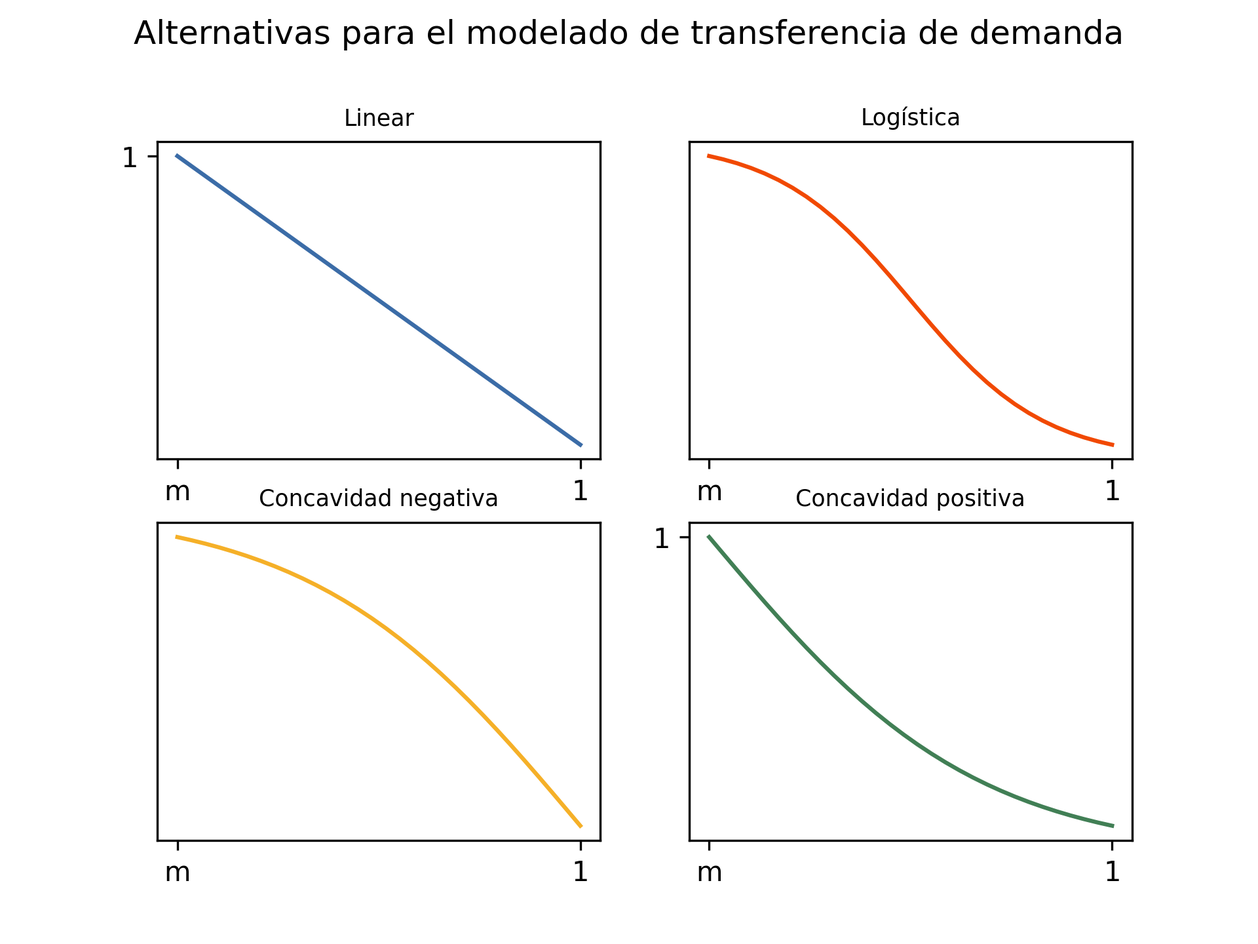
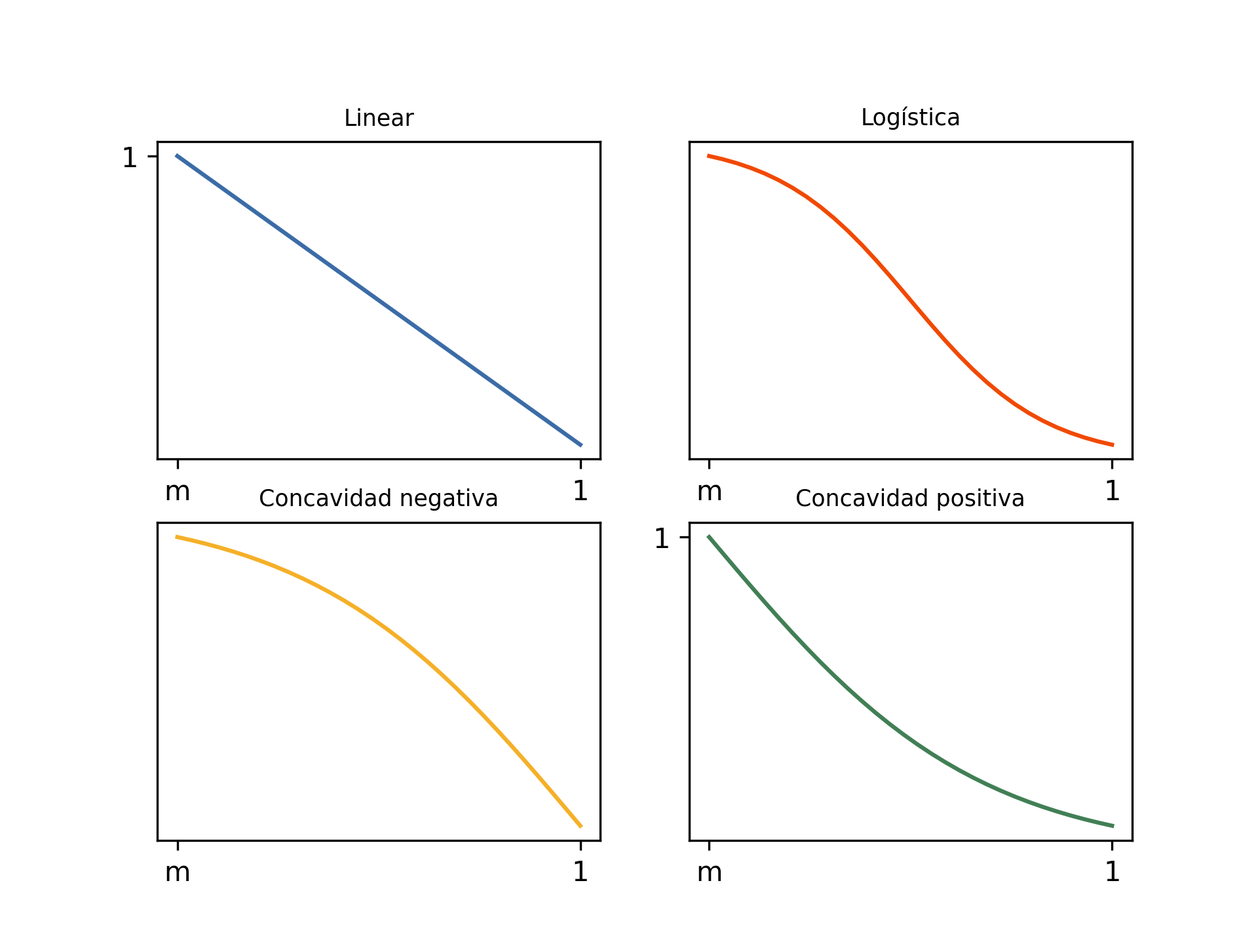
fixes in expriments chapter

Changed region(s): [[0.0938, 0.0, 0.9062, 0.0625]]

diff --git a/thesis/doc/document.tex b/thesis/doc/document.tex
@@ -5,6 +5,7 @@
   \usepackage{amssymb}
   \usepackage{amstext}
   \usepackage{amsthm}
+  \usepackage{caption}
   \usepackage{booktabs}
   \usepackage{esvect}
   \usepackage[font=small,labelfont=bf]{caption}
@@ -22,6 +23,8 @@
 
   \newtheorem{definition}{Definición}
   \newtheorem{lemma}{Lema}
+
+  \captionsetup[table]{name=Tabla}
 
   \newcommand{\modelspace}{\hspace{1.5em}}
 
@@ -368,7 +371,7 @@
 
   Proponemos una formulación alternativa de un nivel que puede ser resuelta por un solver MILP convencional y no incurre en agregados de variables. Sobre esta formulación haremos pruebas empíricas que muestran su validez. Esta formulación resuelve el mismo problema y podemos obtener de ella tanto un valor de demanda transferida como el conjunto de decisiones de cuales infraestructuras construir y dónde.
 
-  La idea surge de la formulación binivel quitando el subproblema y agregando sus restricciones al problema de primer nivel bajo el argumento de que las funciones $f_k$ deben ser estrictamente decrecientes para que el problema tenga sentido semánticamente ya que a mayor costo de usuario menor debería ser la demanda transferida. Entonces para maximizar el objetivo de nuestro problema: $\sum_{j \in OD}f_k(w_k)$, lo mejor es los costos de los caminos más cortos ($w_k, k \in OD$, sean lo más chico posible y por lo tanto logramos minimizar también el costo de usuario.
+  La idea surge de la formulación binivel quitando el subproblema y agregando sus restricciones al problema de primer nivel bajo el argumento de que las funciones $f_k$ deben ser estrictamente decrecientes para que el problema tenga sentido semánticamente ya que a mayor costo de usuario menor debería ser la demanda transferida. Entonces para maximizar el objetivo de nuestro problema: $\sum_{j \in OD}f_k(w_k)$, lo mejor es los costos de los caminos más cortos $w_k, k \in OD$ sean lo más chico posible y por lo tanto logramos minimizar también el costo de usuario.
 
   La formulación resultante es la siguiente:
 
@@ -667,7 +670,7 @@
   \FloatBarrier
   \subsection{Análisis experimental}
 
-  El procedimiento de validación experimental consistió en generar instancias aleatorias, solucionarlas con las diferentes versiones y verificar que se cumplan las condiciones sobre las soluciones. Las diferentes alternativas fueron sobre la formulación de un nivel, dadas por las dos implementaciones de las $f_k$, las dos versiones multiobjetivo y la versión de un único objetivo. Consideraremos en principio parámetros $\beta = 1$ y $\rho = 1$ dado que obtuvimos resultados correctos con esta asignación en una ronda de pruebas.
+  El procedimiento de validación experimental consistió en generar instancias aleatorias, solucionarlas con las diferentes versiones y verificar que se cumplan las condiciones sobre las soluciones. Las diferentes alternativas fueron sobre la formulación de un nivel, dadas por las dos implementaciones de las $f_k$, las dos versiones multiobjetivo y la versión de un único objetivo. Consideraremos en principio parámetros $\beta = 1$ y $\rho = 1$ dado que obtuvimos resultados correctos con esta asignación en una ronda de pruebas preliminares.
 
   Utilizamos la instancia de Sioux-Falls como grafo base, dada su amplia adopción en literatura relativa al tema \cite{liu2019}. Los datos de nodos y arcos fueron obtenidos del repositorio de instancias de redes de transporte \footnote{Transportation Networks Repositort \url{https://github.com/bstabler/TransportationNetworks}}. El costo de usuario se tomó igual al largo del arco así como el costo de construcción de la primer infraestructura no base. Consideramos en total tres tipos de infraestructuras incluyendo la base. El cálculo de costos de usuario y construcción se realizó en base a los costos de usuario base y de construcción para la infraestructura 1, como se detalla en el apéndice \ref{sect:costcalculation}, página \pageref{sect:costcalculation}.
 
@@ -753,23 +756,25 @@
 
   Los resultados de las nuevas ejecuciones se encuentran en la Tabla \ref{table:resumenreejecuciones} y las Figuras \ref{fig:runtimecomparisonrerun} y \ref{fig:firstfourquintilesrerun}. Observamos que se mantiene el comportamiento de la ronda anterior y el v1 sigue siendo más rápido. También observamos que el desempeño de v5 se degradó de peor manera. En los nuevos resultados no hubieron diferencias en términos de demanda total transferida y verificamos correctamente que la diferencia en la instancia problemática de la primera ronda fue solucionada. Dados los resultados, decidimos continuar el resto de este trabajo con la versión v1 de la formulación.
 
-  \section{Resultados computacionales}
+  \section{Experimentos computacionales}
   \label{sect:problemresults}
+
+  Aquí ponemos a prueba el modelo resultante del capitulo \ref{sect:problemresolution}. Primero estudiamos el comportamiento del modelo variando alguno de sus parámetros de manera controlada sobre una instancia de tamaño manejable y analizamos los resultados respecto a la demanda transferida total y a las decisiones que toma respecto a las ciclovías. Luego aplicamos el modelo a una instancia de tamaño realista de la ciudad de Montevideo.
 
   \subsection{Análisis de sensibilidad}
 
-  Estudiamos el comportamiento del modelo frente a perturbaciones en alguno de sus parámetros. Utilizamos la red de Sioux-Falls nuevamente dado que es de un tamaño manejable para realizar todas las ejecuciones en tiempo razonable. Las perturbaciones las realizamos sobre los parámetros específicos del problema, dejando los datos de la red y matriz de demanda fijos. Estos son: puntos de quiebre, funciones de transferencia de demanda y presupuesto. Observar que los parámetros estudiados son de distinta naturaleza: mientras que los primeros dos son relativos al comportamiento de la demanda el último es una decisión exclusiva de la entidad planificadora. La matriz de demanda se toma de Liu 2019 \cite{liu2019}, con 22 pares origen-destino. Los datos de la red y matriz de demanda se encuentran en un apéndice.
+  Estudiamos el comportamiento del modelo frente a perturbaciones en alguno de sus parámetros. Utilizamos la red de Sioux-Falls nuevamente dado que es de un tamaño manejable para realizar todas las ejecuciones en tiempo razonable. Las perturbaciones las realizamos sobre los parámetros específicos del problema, dejando los datos de la red y matriz de demanda fijos. Estos son: puntos de quiebre, funciones de transferencia de demanda y presupuesto. Observar que los parámetros estudiados son de distinta naturaleza: mientras que los primeros dos son relativos al modelado del comportamiento de la demanda el último es una decisión exclusiva de la entidad planificadora. La matriz de demanda se toma de \cite{liu2019}, con 22 pares origen-destino. Los datos de la red y matriz de demanda se encuentran en el apéndice \ref{sect:siouxfallsdata}.
 
   \subsubsection{Especificación de datos}
   \label{sect:dataspecification}
 
-  Nuestro problema requiere la disponibilidad de parámetros que en la práctica no son fácilmente especificables en términos de un valor escalar. En esta sección definimos algunos criterios que utilizamos para especificarlos en base a trabajos externos. En la siguiente, analizamos qué efectos tienen las perturbaciones sobre las soluciones.
+  Nuestro problema requiere la disponibilidad de parámetros que en la práctica no son fáciles de estimar de forma realista como los costos usuario y construcción por tipo de infrastructura y transferencia de demanda en función del costo de usuario. En esta sección definimos algunos criterios que utilizamos para especificarlos en base a trabajos de la literatura. En la siguiente, analizamos qué efectos tienen las perturbaciones sobre las soluciones.
 
-  La cantidad y tipos de infraestructuras de ciclovía varían de país a país tanto en su disponibilidad como en sus costos y por lo tanto es difícil estimar estos últimos de manera general sin llegar a un análisis caso a caso. Por ejemplo en la ciudad de Montevideo podemos encontrar tres tipos \footnote{Mapa interactivo: \url{https://montevideo.gub.uy/mapa-montevideo-en-bici}}: el más básico consiste en imponer un límite bajo de velocidad para los vehículos automotores (30 km/h) y cartelería resaltando cierta calle o zona cómo disponible para el tránsito en bicicleta. Un segundo tipo consiste en utilizar una fracción de la calle como senda específica para bicicletas que puede ir en uno o ambos sentidos. Y el tercer tipo consta de una bicisenda construida especificamente para bicicletas generalmente en canteros y parques.
+  La cantidad y tipos de infraestructuras de ciclovía varían de un contexto a otro tanto en su disponibilidad como en sus costos y por lo tanto es difícil estimar estos últimos de manera general sin llegar a un análisis caso a caso. Por ejemplo en la ciudad de Montevideo podemos encontrar tres tipos \footnote{Mapa interactivo: \url{https://montevideo.gub.uy/mapa-montevideo-en-bici}}: el más básico consiste en imponer un límite superior de velocidad para los vehículos automotores (30 km/h) y cartelería resaltando cierta calle o zona como habilitada para el tránsito en bicicleta. Un segundo tipo consiste en utilizar una fracción de la calle como senda específica para bicicletas que puede ir en uno o ambos sentidos. Y el tercer tipo consta de una bicisenda construida específicamente para bicicletas generalmente en canteros y parques.
 
-  Los costos de construcción pueden variar según la ubicación y tipo de ciclovía, congestión del área de la ciudad, precios de insumos externos como el petróleo y cuestiones logísticos como reubicación de paradas de ómnibus y señales de tránsito, entre otros aspectos. Se puede encontrar información al respecto en el análisis {\it Typical Costs of Cycling Interventions} \cite{typicalcostsofcylcing} que presenta diversos tipos de infraestructuras y los principales factores que afectan el costo de construcción como trabajo dentro de un programa de incentivo del transporte en bicicleta en Inglaterra. En este trabajo nos basamos para simplificar y generalizar la estimación de costos en base al tipo de infraestructura: decimos que la infraestructura de tipo $i+1$ cuesta el doble que la infraestructura de tipo $i$.
+  Los costos de construcción pueden variar según la ubicación y tipo de ciclovía, congestión del área de la ciudad y su afectación por las obras, precios de insumos externos como el petróleo y cuestiones logísticas como reubicación de paradas de ómnibus y señales de tránsito, entre otros aspectos. Se puede encontrar información al respecto en el análisis \cite{typicalcostsofcylcing} que presenta diversos tipos de infraestructuras y los principales factores que afectan el costo de construcción como trabajo dentro de un programa de incentivo del transporte en bicicleta en Inglaterra. En dicho trabajo nos sustentamos para simplificar y generalizar la estimación de costos en base al tipo de infraestructura: decimos que la infraestructura de tipo $i+1$ cuesta el doble que la infraestructura de tipo $i$.
 
-  Por otro lado, los costos de usuario de atravesar un arco varían en la práctica dependiendo de factores como ancho de la vía, pavimento, volumen y velocidad del tránsito, entre otros, que a su vez se ponderan por el largo del arco. En el documento {\it Bicycle Level Of Service, Applied Model} \cite{blos2007} podemos encontrar el concepto de {\it Bicycle Level of Service} (BLOS), muy utilizado en la literatura, que agrupa estas consideraciones bajo un único valor. Para el cálculo del BLOS se tienen en cuenta los distintos aspectos que cuantificados en indicadores, son luego utilizados en una fórmula para calcular el puntaje de BLOS que se estratifican según el documento en 6 niveles del A al F.
+  Por otro lado, los costos de usuario de atravesar un arco varían en la práctica dependiendo de factores como ancho de la vía, pavimento, volumen y velocidad del tránsito, entre otros, que a su vez se ponderan por el largo del arco. En el documento \cite{blos2007} podemos encontrar el concepto de {\it Bicycle Level of Service} (BLOS), muy utilizado en la literatura, que agrupa estas consideraciones bajo un único valor. Para el cálculo del BLOS se tienen en cuenta los distintos aspectos que cuantificados en indicadores, son luego utilizados en una fórmula para calcular el puntaje de BLOS que se estratifican en 6 niveles del A al F.
 
   Los aspectos que se consideran son los siguientes:
 
@@ -787,12 +792,12 @@
       \toprule
         Nivel & Puntaje BLOS & Infraestructura & \shortstack{Proporción de mejora \\ sobre costo base} \\
       \midrule
-        A     & $\leq 1.5$   & 5              & 0.4   \\
-        B     & 1.5-2.5      & 4              & 0.52  \\
-        C     & 2.5-3.5      & 3              & 0.64  \\
-        D     & 3.5-4.5      & 2              & 0.76  \\
-        E     & 4.5-5.5      & 1              & 0.88  \\
-        F     & > 5.5        & 0              & 1     \\
+        A     & $\leq 1.5$   & 5              & 0,4   \\
+        B     & 1,5-2,5      & 4              & 0,52  \\
+        C     & 2,5-3,5      & 3              & 0,64  \\
+        D     & 3,5-4,5      & 2              & 0,76  \\
+        E     & 4,5-5,5      & 1              & 0,88  \\
+        F     & > 5,5        & 0              & 1     \\
       \bottomrule
     \end{tabular}
     \caption{Niveles de servicio definidos en el BLOS, menor puntaje BLOS representa mejores condiciones para el usuario. Para cada nivel se define una infraestructura y su correspondiente proporción de mejora sobre la infraestructura base.}\label{table:blosscores}
@@ -804,9 +809,9 @@
 
   Respecto al comportamiento de los usuarios, suponemos que la demanda de todos los pares origen-destino se comporta de igual manera, lo cual tiene sentido al considerar una población determinada. Esto reduce la necesidad de especificar $|OD|$ funciones de transferencias de demanda a una sola. Es decir, para cada par origen destino $k$, tenemos que $f_k(w_k) = f({w_k \over S^{best}_k})d_k$, donde $d_k$ es la demanda máxima que se puede transferir, $S^{best}_k$ es el costo del camino más corto sobre la infraestructura base y $f: [m, 1] \rightarrow [0, 1]$ modela la proporción de demanda transferida en función de la proporción del nuevo costo sobre el costo base $S^{best}_k$.
 
-  Partimos del trabajo {\it Performance evaluation of extreme bicycle scenarios} \cite{shwe2014} que analizando una extensiva encuesta realizada en varios países aproxima la proporción de viajes hechos en bicicleta y el largo de infraestructura de ciclovía per cápita en la ciudad a una relación lineal. Tomando este resultado, utilizamos una función lineal decreciente como función de transferencia de referencia. Como alternativa, encontramos en el libro {\it Modeling Transport} \cite{ortuz2011} que el comportamiento de la demanda al momento de decidir entre dos modos se comporta como una función con forma de S, logística o sigmoide, por lo que también consideramos una función logística en nuestras pruebas. Por completitud analizamos otras funciones que podrían considerarse razonables: una con concavidad estrictamente positiva y otra con concavidad estrictamente negativa en el intervalo $[m, 1]$.
+  Partimos de \cite{shwe2014} en el que analizando una extensiva encuesta realizada en varios países aproxima la proporción de viajes hechos en bicicleta y el largo de infraestructura de ciclovía per cápita en la ciudad a una relación lineal. Tomando este resultado, utilizamos una función lineal decreciente como función de transferencia de referencia. Como alternativa, en \cite{ortuz2011} se menciona que el comportamiento de la demanda al momento de decidir entre dos modos se comporta como una función con forma de S, logística o sigmoide, por lo que también consideramos una función logística en nuestras pruebas. Por completitud analizamos otras funciones que podrían considerarse razonables: una con concavidad estrictamente positiva y otra con concavidad estrictamente negativa en el intervalo $[m, 1]$.
 
-  Establecer valores de presupuesto realistas depende altamente de las condiciones políticas y económicas de cada localidad. Podemos encontrar en la literatura \cite{rios2015} y \cite{shwe2014} que factores de cubrimiento de la red de ciclovías en una ciudad de entre 10\% y 40\% del total de la superficie de una ciudad están dentro de los parámetros normales. Seguimos este enfoque y especificamos el presupuesto como porcentaje del costo total de construir una infraestructura en toda la red tomando como referencia el costo de la infraestructura 1, es decir la infraestructura especializada más básica. Dado nuestro método para el calculo de los costos de los tipos de infraestructuras esto implica que un presupuesto del 40\% es suficientemente para cubrir 20\% solo con la infraestructura de tipo 2, 10\% solo con la infraestructura de tipo 3; y en general un factor de $F\%$ cubre ${F \over {2^{i - 1}}}\%$ de la infraestructura $i \in \{1,..,5\}$.
+  Establecer valores de presupuesto realistas depende altamente de las condiciones políticas y económicas de cada localidad. Podemos encontrar en \cite{rios2015} y \cite{shwe2014} que factores de cubrimiento de la red de ciclovías en una ciudad de entre 10\% y 40\% del total de la red de calles de una ciudad están dentro de los parámetros normales. Seguimos este enfoque y especificamos el presupuesto como porcentaje del costo total de construir una infraestructura en toda la red tomando como referencia el costo de la infraestructura 1, es decir la infraestructura especializada más básica que sigue a la red de calles. Dado nuestro método para el cálculo de los costos de los tipos de infraestructuras esto implica que un presupuesto del 40\% es suficientemente para cubrir 20\% solo con la infraestructura de tipo 2, 10\% solo con la infraestructura de tipo 3; y en general un factor de $F\%$ cubre ${F \over {2^{i - 1}}}\%$ de la infraestructura $i \in \{1,..,5\}$.
 
   Finalmente, usamos el largo de los arcos como costo de usuario y costo de construcción de la infraestructura 1. Esto nos da una medida suficientemente simple y general como para usar en cualquier instancia.
 
@@ -827,9 +832,9 @@
 
   En primer lugar analizamos la sensibilidad respecto al factor de presupuesto. Los valores utilizados son: 10\%, 80\%, 160\% y 320\%. El objetivo es observar si se cumple la simple intuición de que siempre a mayor presupuesto se obtienen mejores resultados y cómo es el comportamiento respecto a los incrementos de presupuesto. También analizamos el efecto que tiene la cantidad de puntos de quiebre en los resultados, utilizando 5 y 20 puntos para cada presupuesto.
 
-  Luego, comparamos el resultado de aplicar diferentes funciones de transferencia de demanda y cómo afecta el hecho de utilizar distintas cantidades de puntos de quiebre. Utilizamos 5, 20 y 50 puntos de quiebre junto a las cuatro funciones mencionadas en la sección anterior. Los puntos los definimos de manera que sean equidistantes en el codominio, es decir, si hay N puntos, de un punto al siguiente se obtiene una mejora de aproximadamente ${1 \over N - 1}$ en la proporción de demanda transferida.
+  Luego, comparamos el resultado de aplicar diferentes funciones de transferencia de demanda y cómo afecta el hecho de utilizar distintas cantidades de puntos de quiebre. Utilizamos 5, 20 y 50 puntos de quiebre junto a las cuatro funciones mencionadas en la sección anterior (\ref{sect:dataspecification}). Definimos los puntos de manera que sean equidistantes en el codominio, es decir, si hay N puntos, de un punto al siguiente se obtiene una mejora de aproximadamente ${1 \over N - 1}$ en la proporción de demanda transferida.
 
-  Como resultado tenemos 36 instancias cuya representación pre simplificaciones en Simplex son matrices que van desde un tamaño de 12597x12310 con 562 variables enteras hasta 14487x14290 con 1552 variables enteras.
+  Como resultado tenemos 36 instancias cuya representación pre simplificaciones en Simplex son matrices que van desde un tamaño de 12597x12310 con 562 variables enteras hasta 14487x14290 con 1552 variables binarias.
 
   \begin{figure}[h!]
     \centering
@@ -841,9 +846,9 @@
   \FloatBarrier
   \subsubsection{Resultados}
 
-  Las instancias fueron ejecutadas con el solver CPLEX versión 12.8.0.0 en su configuración por defecto sobre una maquina Intel Core i9-9900K con 64GiB de RAM. Los resultados generales de las ejecuciones se encuentran en la Tabla \ref{table:sensibilityresults} y los datos sobre el uso del presupuesto, que luego comentaremos, en la Tabla \ref{table:sensibilitybudgetusage}.
+  Las instancias fueron ejecutadas con el solver CPLEX versión 12.8.0.0 en su configuración por defecto sobre una máquina Intel Core i9-9900K con 64GiB de RAM. Los resultados generales de las ejecuciones se encuentran en la Tabla \ref{table:sensibilityresults} y los datos sobre el uso del presupuesto, que luego comentaremos, en la Tabla \ref{table:sensibilitybudgetusage}.
 
-  Se puede observar que a mayor cantidad de puntos de quiebre, fijando la función de transferencia de demanda y el presupuesto, obtenemos mayor transferencia de demanda. Esto tiene sentido ya que la función de transferencia es representada de manera más precisa. También vemos que variar la cantidad de puntos de quiebre parece hacer variar enormemente el tiempo de ejecución en algunos casos, sin poderse determinar una relación directa entre la cantidad y la complejidad resultante, aunque entendemos que para sacar conclusiones al respecto deberíamos realizar un buen número de ejecuciones para cada instancia en lo que en CPLEX se llama modo oportunista, es decir paralelizar al máximo sin garantizar determinismo. Por otro lado, observamos un fuerte impacto del modelado del comportamiento de la transferencia de demanda, es decir de cuál función se utiliza, sobre la demanda transferida. Esto nos confirma que es un aspecto importante del modelado, si bien las funciones consideradas en este caso pueden haber sido irreales o exageradas en sus curvaturas. Finalmente, vemos que la demanda transferida en función de la cantidad de presupuesto, fijando cantidad de puntos de quiebre y función de transferencia de demanda, parece crecer según la curva de la Figura \ref{fig:demandtransferbybudgetlinear} con concavidad negativa lo que implica que el beneficio marginal de aumentar el presupuesto es cada vez menor.
+  Se puede observar que a mayor cantidad de puntos de quiebre, fijando la función de transferencia de demanda y el presupuesto, obtenemos mayor transferencia de demanda. Esto tiene sentido ya que la función de transferencia es representada de manera más precisa. También vemos que variar la cantidad de puntos de quiebre parece hacer variar enormemente el tiempo de ejecución en algunos casos, sin poderse determinar una relación directa entre la cantidad y la complejidad resultante, aunque entendemos que para sacar conclusiones al respecto deberíamos realizar un buen número de ejecuciones para cada instancia en lo que en CPLEX se llama modo oportunista, es decir paralelizar al máximo sin garantizar determinismo. Por otro lado, observamos un fuerte impacto del modelado del comportamiento de la transferencia de demanda, es decir de cuál función se utiliza, sobre la demanda transferida. Esto nos confirma que es un aspecto importante del modelado, si bien las funciones consideradas en este caso pueden haber sido poco realistas o exageradas en sus curvaturas. Finalmente, vemos que la demanda transferida en función de la cantidad de presupuesto, fijando cantidad de puntos de quiebre y función de transferencia de demanda, parece crecer según la curva de la Figura \ref{fig:demandtransferbybudgetlinear} con concavidad negativa, lo que implica que el beneficio marginal de aumentar el presupuesto es cada vez menor.
 
   \begin{figure}[h!]
     \centering
@@ -956,9 +961,9 @@
   \end{figure}
 
   \FloatBarrier
-  \subsubsection*{Casos interesantes}
+  \subsubsection*{Casos particulares}
 
-  Como caso interesante de comparación vamos a discutir cómo afecta la cantidad de puntos de quiebre a la decisiones de cuales infraestructuras construir. Comparamos las instancias 11, 12 y 13, que utilizan la función lineal de transferencia de demanda con 5, 20 y 50 puntos de quiebre respectivamente y un factor de presupuesto de 40\%. Más datos específicos de cada instancia se pueden apreciar en la Tabla \ref{table:sensibilityinfralengths} y Figura \ref{fig:sensibilityinstance11_12_13}. Observamos que a mayor cantidad de puntos de quiebre más inteligentes son las decisiones tomadas. Por ejemplo, en la instancia 11 la mitad del acotado presupuesto se invirtió en poco recorrido utilizando la infraestructura 3 mientras que en la 12 y 13 el gasto en esta infraestructura sólo fue el 12\%. En las instancias 12 y 13 la mayor parte del gasto se hizo en infraestructura 2 que para el nivel de presupuesto y función de transferencia de demanda parece ser la más eficiente. En particular, los datos de porcentaje del largo total cubierto desglosado por tipo de infraestructura nos da una idea general de la demanda afectada, al ser esta instancia altamente densa y uniforme en términos de orígenes y destinos, como se observa en la Figura \ref{fig:sioux_falls_demand}.
+  Como caso interesante de comparación vamos a discutir cómo afecta la cantidad de puntos de quiebre a la decisiones de cuales infraestructuras construir. Comparamos las instancias 11, 12 y 13, que utilizan la función lineal de transferencia de demanda con 5, 20 y 50 puntos de quiebre respectivamente y un factor de presupuesto de 40\%. Más datos específicos de cada instancia se pueden apreciar en la Tabla \ref{table:sensibilityinfralengths} y Figura \ref{fig:sensibilityinstance11_12_13}. Observamos que a mayor cantidad de puntos de quiebre más inteligentes son las decisiones tomadas. Por ejemplo, en la instancia 11 la mitad del acotado presupuesto se invirtió en poco cubrimiento de calles utilizando la infraestructura 3 mientras que en la 12 y 13 el gasto en esta infraestructura sólo fue el 12\%. En las instancias 12 y 13 la mayor parte del gasto se hizo en infraestructura 2 que para el nivel de presupuesto y función de transferencia de demanda parece ser la más eficiente. En particular, los datos de porcentaje del largo total de las calles cubierto desglosado por tipo de infraestructura nos da una idea general de la demanda afectada, al ser esta instancia altamente densa y uniforme en términos de orígenes y destinos, como se observa en la Figura \ref{fig:sioux_falls_demand}.
 
   Si observamos los datos de demanda transferida y costo de camino más corto, Figura \ref{fig:sensibilitybyodpair_11_12_13}, vemos que a mayor cantidad de puntos de quiebre mayor es la cantidad de pares origen-destino afectada aunque en general las decisiones de cuáles pares origen-destino y cuánto mejorarlos no fue muy diferente entre instancias.
 
@@ -968,9 +973,9 @@
       \toprule
         Instancia & Infra. 1 (\%) & Infra. 2 (\%) & Infra. 3 (\%) & Total (\%) \\
       \midrule
-        11 & 8.74  & 6.51   & 5.72 & 20.98 \\
-        12 & 8.89  & 15.22  & 1.64 & 25.75 \\
-        13 & 2.29  & 17.77  & 1.96 & 22.73 \\
+        11 & 8,74  & 6,51   & 5,72 & 20,98 \\
+        12 & 8,89  & 15,22  & 1,64 & 25,75 \\
+        13 & 2,29  & 17,77  & 1,96 & 22,73 \\
       \bottomrule
     \end{tabular}
     \caption{Porcentaje del largo total de arcos de la red construido con cada tipo de infraestructura (excluyendo la infraestructura base) para las instancias de interés.}\label{table:sensibilityinfralengths}
@@ -996,16 +1001,16 @@
   \begin{figure}[h!]
     \centering
     \includegraphics[width=6cm]{../resources/sioux_falls_demand.png}
-    \caption{Visualización de la distribución del pares origen y destino junto a su valor de demanda representado por el tamaño de los círculos para la instancia de Sioux-Falls.}
+    \caption{Visualización de la distribución de pares origen y destino junto a su valor de demanda representado por el tamaño de los círculos para la instancia de Sioux-Falls.}
     \label{fig:sioux_falls_demand}
   \end{figure}
 
   \FloatBarrier
-  \subsection{Aplicación sobre una instancia realista}
+  \subsection{Aplicación a un caso real}
 
-  Como prueba final, utilizamos una instancia de la ciudad de Montevideo de manera de poder analizar la aplicación práctica del problema sobre datos familiares y realistas. Los datos de la instancia provienen de una red sobre una zonificación de la ciudad y un estudio del comportamiento de la demanda TODO: referencias que resulta en un grafo de 136 nodos y 636 arcos. Respecto a la demanda, consideramos un conjunto de 734 pares origen-destino compuesto por aquellos que distan a menos de 5 km de distancia euclídea entre ellos y cuya demanda es significativa, entendido como mayor al 10\% del valor de demanda más alto. Encontramos que una distancia 5 km en línea recta, y distancia Manhattan máxima de poco más que 7 km, es un límite razonable para viajes en bicicleta común y eléctricas según \cite{anette2018}, donde se estima una distancia de viaje promedio de 2.6 km y 3 km respectivamente y una distancia máxima para las últimas de 13 km.
+   Utilizamos una instancia de la ciudad de Montevideo de manera de poder analizar la aplicación práctica del problema sobre datos familiares y realistas. Los datos de la instancia provienen de una red sobre una zonificación de la ciudad y un estudio del comportamiento de la demanda TODO: referencias que resulta en un grafo de 136 nodos y 636 arcos. Respecto a la demanda, consideramos un conjunto de 734 pares origen-destino compuesto por aquellos que distan a menos de 5 km de distancia euclídea entre ellos y cuya demanda es significativa, entendido como mayor al 10\% del valor de demanda más alto. Encontramos que una distancia 5 km en línea recta, y distancia Manhattan máxima de poco más que 7 km, es un límite razonable para viajes en bicicleta común y eléctricas según \cite{anette2018}, donde se estima una distancia de viaje promedio de 2.6 km y 3 km respectivamente y una distancia máxima para las últimas de 13 km.
 
-  Dado el tamaño de la instancia y los recursos computacionales disponibles decidimos utilizar 4 infraestructuras, incluyendo la base, y 10 puntos de quiebre. Probamos las funciones de transferencia de demanda logística y lineal y tres factores de presupuesto: 40\%, 80\% y 160\%. Las instancias fueron resueltas por el solver CPLEX versión 20.1.0.0, en un CPU Xeon Gold 6138 utilizando hasta 16 hilos y hasta 180 GB de memoria. CPLEX fue configurado para utilizar descomposición de Benders de manera automática lo que nos permitió resolver de manera óptima las instancias estudiadas en unas pocas horas. Vale la pena mencionar que realizamos pruebas utilizando más tipos de infraestructura y mayor cantidad de pares origen-destino pero nos encontramos con limitaciones en los recursos disponibles en términos de memoria o límite de tiempo de ejecución de 5 días.
+  Dado el tamaño de la instancia y los recursos computacionales disponibles decidimos utilizar 4 infraestructuras, incluyendo la base, y 10 puntos de quiebre. Probamos las funciones de transferencia de demanda logística y lineal y tres factores de presupuesto: 40\%, 80\% y 160\%. Las instancias fueron resueltas por el solver CPLEX versión 20.1.0.0, en un CPU Xeon Gold 6138 utilizando hasta 16 hilos y hasta 180 GB de memoria. CPLEX fue configurado para utilizar descomposición de Benders de manera automática, lo que nos permitió resolver de manera óptima las instancias estudiadas en unas pocas horas. Vale la pena mencionar que realizamos pruebas utilizando más tipos de infraestructura y mayor cantidad de pares origen-destino pero nos encontramos con limitaciones en los recursos disponibles en términos de memoria o límite de tiempo de ejecución de 5 días.
 
   El resumen de las ejecuciones se encuentra en la Tabla \ref{table:montevideoexecutions} y la asignación de presupuesto a infraestructuras en la Tabla \ref{table:montevideobudgetusage} y Figura \ref{fig:montevideobudgetusage}.
 
@@ -1033,9 +1038,9 @@
     \label{fig:montevideodemanddist}
   \end{figure}
 
-  Observamos que los resultados son buenos en términos de demanda transferida para los casos con menor presupuesto en comparación con las instancias de Sioux-Falls. Podemos explicar esto porque la distribución del grueso de la demanda en la red de Montevideo, como se puede ver en la Figura \ref{fig:montevideodemanddist}, se ubica en la misma región de la red. Por lo tanto concentrar la inversión en esa zona produce resultados de amplio impacto.
+  Observamos que los resultados son buenos en términos de demanda transferida para los casos con menor presupuesto en comparación con las instancias de Sioux-Falls. Podemos explicar esto porque la distribución de la proporción más significativa de la demanda en la red de Montevideo, como se puede ver en la Figura \ref{fig:montevideodemanddist}, se ubica en la misma región de la red. Por lo tanto concentrar la inversión en esa zona produce resultados de amplio impacto.
 
-  Respecto a las infraestructuras construidas, vemos que la función de transferencia de demanda que usemos hace variar la distribución de uso del gasto a igual factor de presupuesto, ver Tabla \ref{table:montevideobudgetusage} y la Figura \ref{fig:montevideo_instances_infras} para una representación gráfica. Esto es esperable ya que la función de comportamiento de la demanda dicta que mejoras realizar y con qué criterio. Si consideramos ademas los datos de la Tabla \ref{table:montevideoinfracoverage} vemos que la función de transferencia lineal induce una utilización que afecta potencialmente a mayor cantidad de pares origen-destino y por lo tanto podría resultar en decisiones que podrían beneficiar a más usuarios que la logística dado que abarca más superficie a expensas de menor calidad en promedio.
+  Respecto a las infraestructuras construidas, vemos que la función de transferencia de demanda que usemos hace variar la distribución de uso del gasto a igual factor de presupuesto, ver Tabla \ref{table:montevideobudgetusage} y la Figura \ref{fig:montevideo_instances_infras} para una representación gráfica. Esto es esperable ya que la función de comportamiento de la demanda dicta qué mejoras realizar y con qué criterio. Si consideramos además los datos de la Tabla \ref{table:montevideoinfracoverage} vemos que la función de transferencia lineal induce una utilización que afecta potencialmente a mayor cantidad de pares origen-destino y por lo tanto podría resultar en decisiones que podrían beneficiar a más usuarios que la logística dado que abarca más superficie a expensas de menor calidad en promedio.
 
   \begin{table}[h!]
     \centering
@@ -1060,12 +1065,12 @@
       \toprule
         Instancia & Infra. 1 (\%) & Infra. 2 (\%) & Infra. 3 (\%) & Total (\%) \\
       \midrule
-        1 & 0.39 & 5.57 & 7.11 & 13.07 \\
-        2 & 0.0  & 0.69 & 9.65 & 10.34 \\
-        3 & 0.65 & 11.21 & 14.22 & 26.09 \\
-        4 & 0.33 & 1.22 & 19.30 & 20.86 \\
-        5 & 0.0  & 9.95 & 35.01 & 44.96 \\
-        6 & 0.21 & 2.07 & 38.90 & 41.19 \\
+        1 & 0,39 & 5,57 & 7,11 & 13,07 \\
+        2 & 0,0  & 0,69 & 9,65 & 10,34 \\
+        3 & 0,65 & 11,21 & 14,22 & 26,09 \\
+        4 & 0,33 & 1,22 & 19,30 & 20,86 \\
+        5 & 0,0  & 9,95 & 35,01 & 44,96 \\
+        6 & 0,21 & 2,07 & 38,90 & 41,19 \\
       \bottomrule
     \end{tabular}
     \caption{Porcentaje del total de caminos cubierto por cada tipo de infraestructura.}
@@ -1231,6 +1236,7 @@
   El parámetro $k_m$ determina la cuesta de las funciones logísticas y es utilizado para que los valores funcionales en los extremos de $(m, 1)$ estén cerca de $1$ y $0$ respectivamente. Fue determinado de manera experimental y se calcula como $k_m = {3 \over 1 - m}$
 
   \subsection{Instancia de Sioux-Falls}
+  \label{sect:siouxfallsdata}
 
   Esta instancia se utilizó para las pruebas preliminares y de sensibilidad de parámetros. Aquí se especifican los datos del grafo, costos de usuario sobre la infraestructura base, de construcción en la Tabla \ref{table:siouxfallsgraphdata} y datos de demanda en Tabla \ref{table:siouxfallsdemanddata}. La representación se puede observar en la Figura \ref{fig:siouxfallsapendix}.
 

diff --git a/scripts/docresources.py b/scripts/docresources.py
@@ -53,8 +53,8 @@ def draw_f_shapes():
         ax.set_yticks([1])
 
     # fig.tight_layout()
-    fig.suptitle(
-        'Alternativas para el modelado de transferencia de demanda', y=0.98)
+    # fig.suptitle(
+    #     'Alternativas para el modelado de transferencia de demanda', y=0.98)
     fig.savefig(get_fig_output_path('f_catalog.png'), dpi=300)
 
 
@@ -140,7 +140,7 @@ def draw_sioux_falls():
         bc.draw.draw_demand_weight, alpha=0.2, circle_factor=130)
     draw_demand(ax, model)
 
-    ax.set_title('Orígenes y Destinos')
+    # ax.set_title('Orígenes y Destinos')
     ax.margins(0.3, 0.25)
     fig.savefig(
         get_fig_output_path('sioux_falls_demand.png'),
